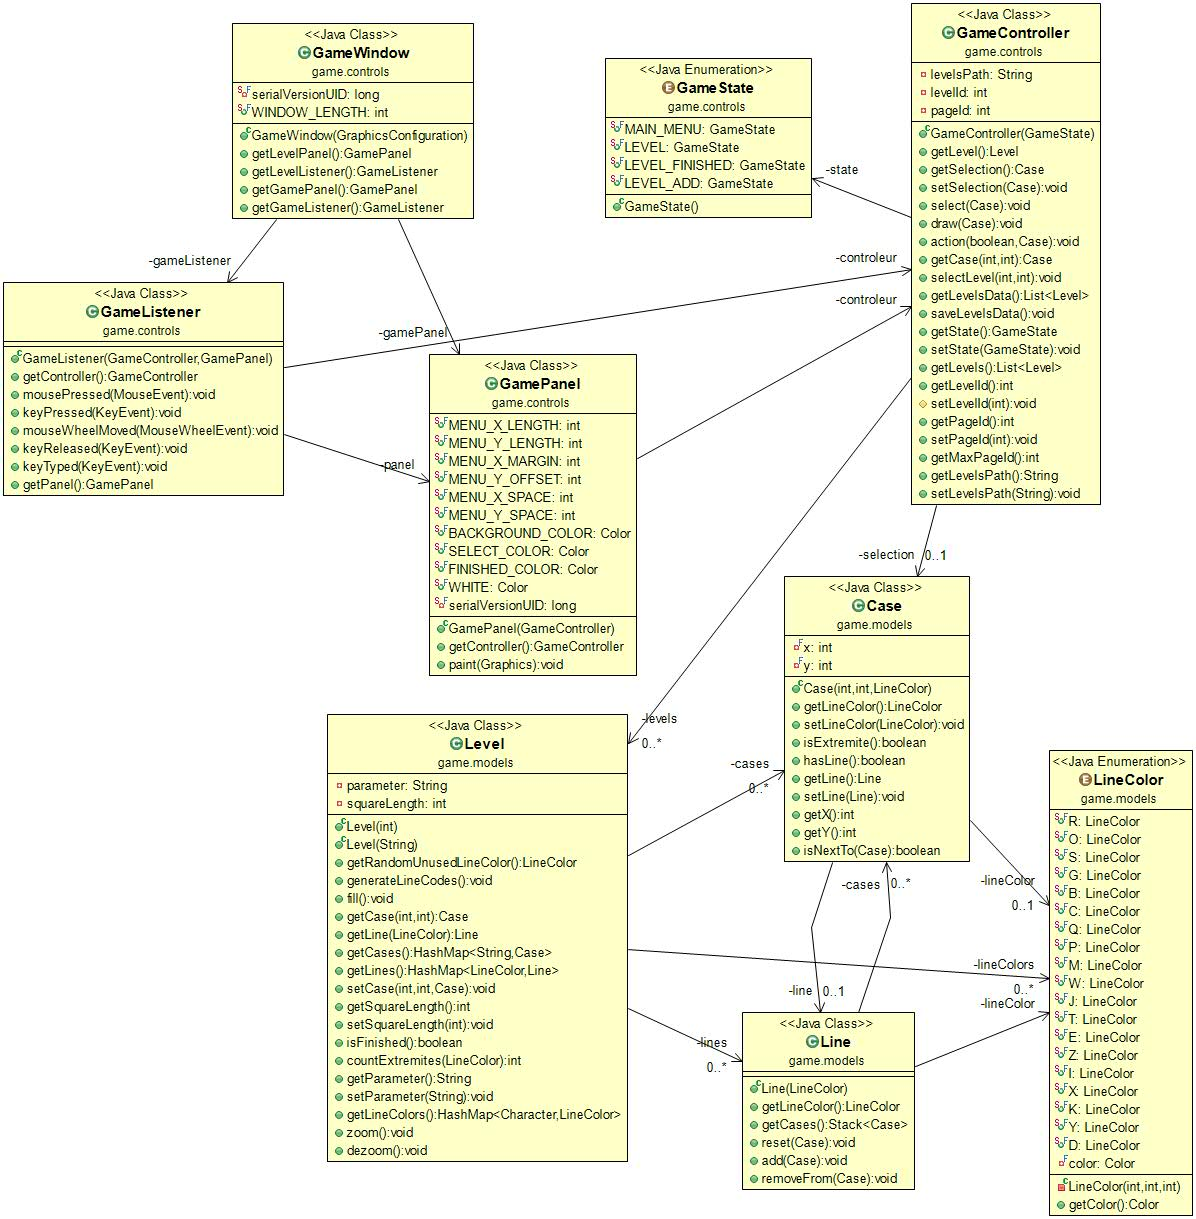
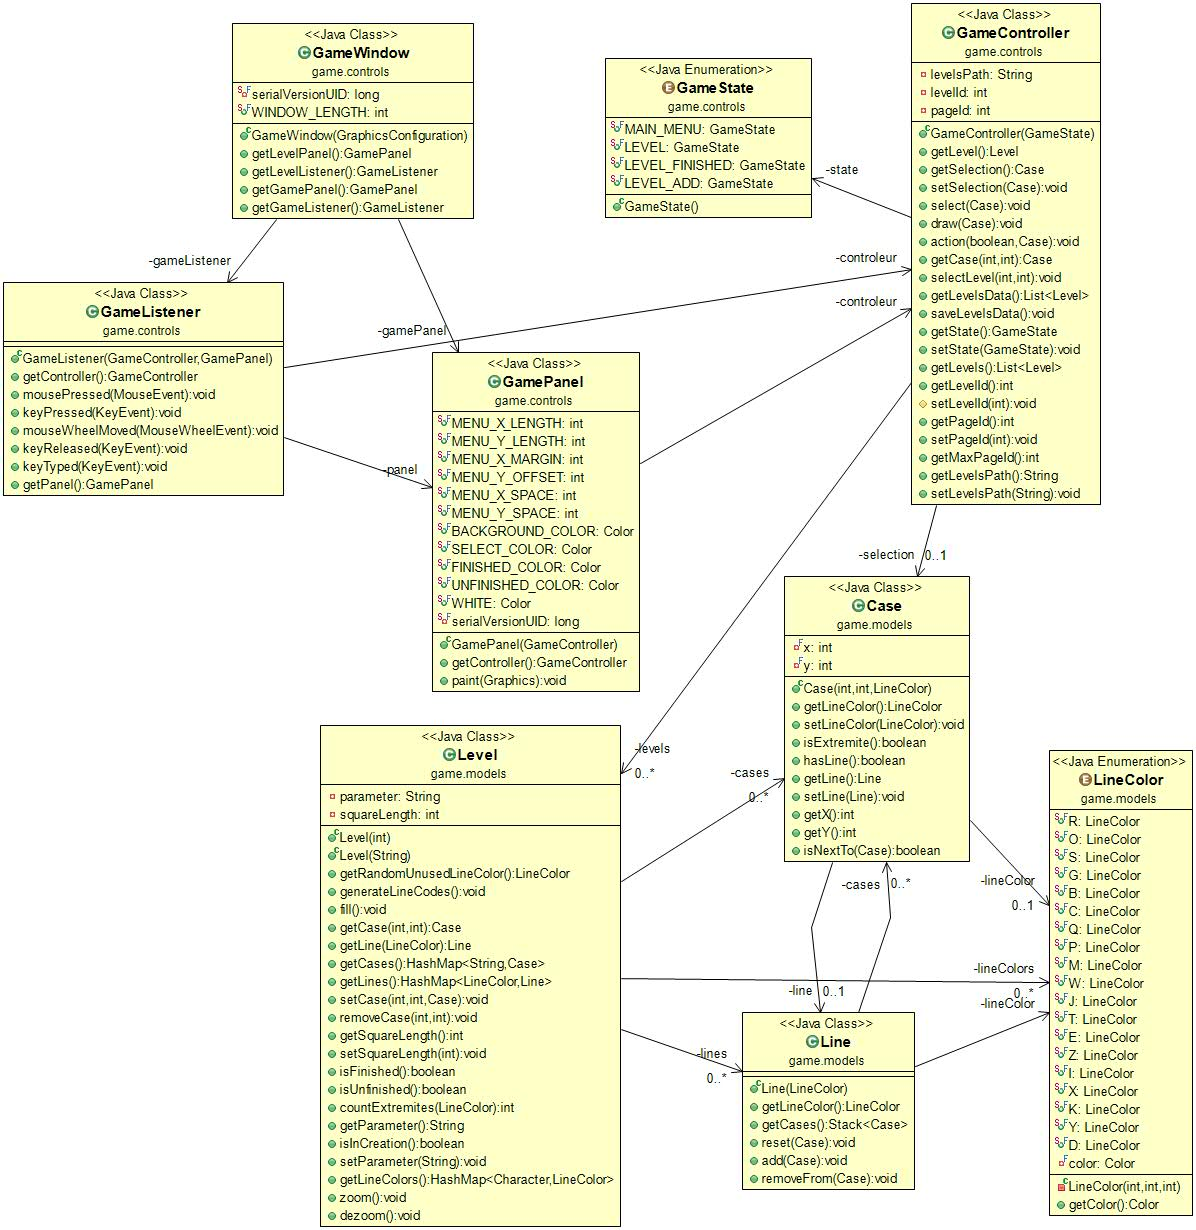
Fixed level creation zoom

diff --git a/src/game/models/Level.java b/src/game/models/Level.java
@@ -147,6 +147,13 @@ public class Level {
 	public void setCase(int ligne, int colonne, Case newCase) {
 		this.getCases().put(String.valueOf(ligne) + "." + String.valueOf(colonne), newCase);
 	}
+	
+	public void removeCase(int ligne, int colonne) {
+		String key1 = String.valueOf(ligne) + "." + String.valueOf(colonne);
+		Case case1 = this.getCases().get(key1);
+		if (case1 != null && case1.hasLine()) case1.getLine().reset(null);
+		this.getCases().remove(key1);
+	}
 
 	public int getSquareLength() {
 		return squareLength;
@@ -220,14 +227,8 @@ public class Level {
 	public void zoom() {
 		if (this.getSquareLength() > 5) {
 			for (int k = 0; k < this.getSquareLength(); k++) {
-				Case case1 = this.getCases().get(String.valueOf(this.getSquareLength()) + "." + String.valueOf(k));
-				if (case1 != null && case1.hasLine()) case1.getLine().reset(null);
-				
-				Case case2 = this.getCases().get(String.valueOf(this.getSquareLength()) + "." + String.valueOf(k));
-				if (case2 != null && case2.hasLine()) case2.getLine().reset(null);
-				
-				this.getCases().remove(String.valueOf(this.getSquareLength()) + "." + String.valueOf(k));
-				this.getCases().remove(String.valueOf(k) + "." + String.valueOf(this.getSquareLength()));
+				this.removeCase(this.getSquareLength() - 1, k);
+				this.removeCase(k, this.getSquareLength() - 1);
 			}
 			
 			this.setSquareLength(this.getSquareLength() - 1);
